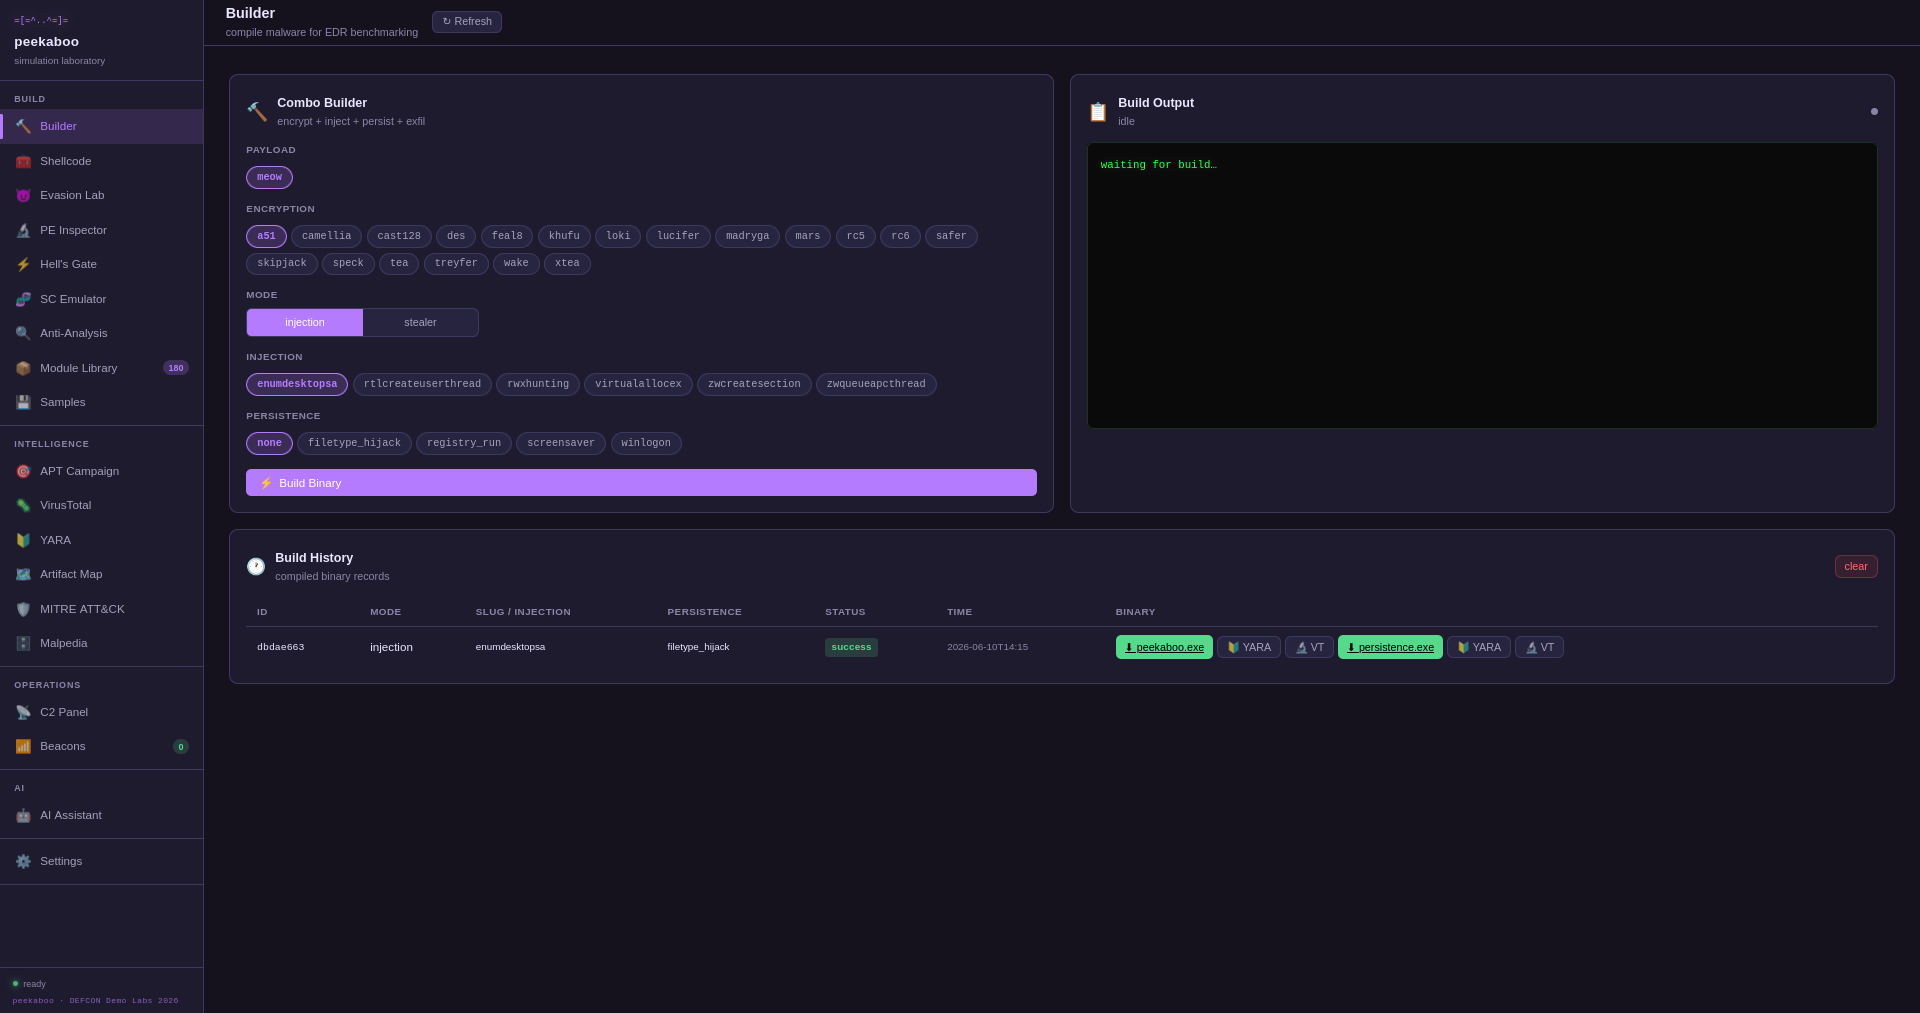
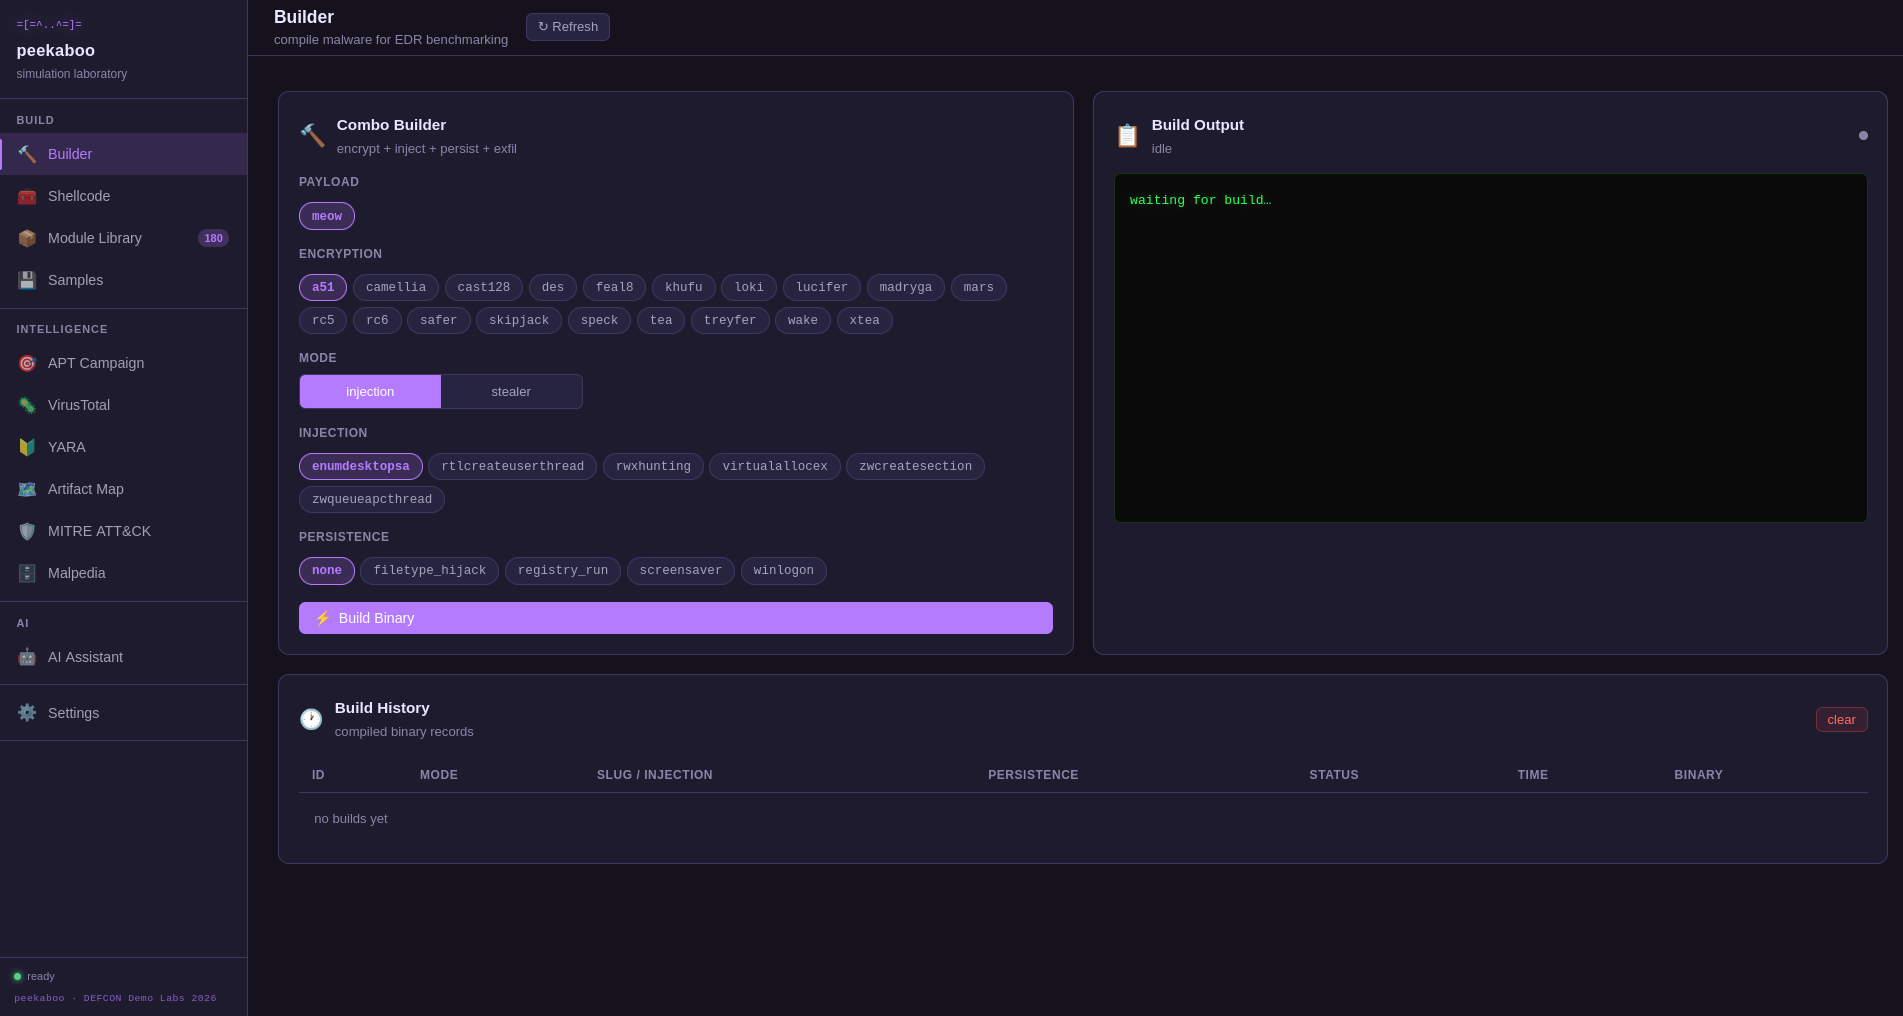
update readme: screenshots

diff --git a/dashboard/templates/index.html b/dashboard/templates/index.html
@@ -4549,7 +4549,7 @@ function artRebuild() {
     }
   };
   es.onerror = () => {
-    msg.textContent = 'Connection error — check console';
+    msg.textContent = 'Connection error - check console';
     es.close();
     if (btn) btn.disabled = false;
   };

diff --git a/worker.py b/worker.py
@@ -817,7 +817,7 @@ def _build_sigma_prompt(entry: dict) -> str:
     cmdlines  = entry.get("cmdlines",  [])[:4]
 
     parts = [
-        f"ATT&CK Technique: {tid} — {name}",
+        f"ATT&CK Technique: {tid} - {name}",
         f"Tactic: {tactic}",
         f"Covered by {rules} Sigma detection rules.",
     ]
@@ -867,7 +867,7 @@ def cmd_sigma(args: argparse.Namespace) -> None:
             print("[sigma] artifact_parser not available (pyyaml installed?)", flush=True)
             sys.exit(1)
         if not HAS_YAML:
-            print("[sigma] pyyaml not installed — run: pip install pyyaml", flush=True)
+            print("[sigma] pyyaml not installed - run: pip install pyyaml", flush=True)
             sys.exit(1)
 
         print(f"[sigma] parsing {sigma_dir} …", flush=True)
@@ -889,7 +889,7 @@ def cmd_sigma(args: argparse.Namespace) -> None:
     # -- Step 2: LLM summarization --------------------------------------------
     total = db.count_artifact_entries()
     if total == 0:
-        print("[sigma] artifact map is empty — add --sigma-path to parse rules first", flush=True)
+        print("[sigma] artifact map is empty - add --sigma-path to parse rules first", flush=True)
         print("[sigma]   example: python worker.py sigma --sigma-path ~/hacking/sigma", flush=True)
         return
 

diff --git a/README.md b/README.md
@@ -1,6 +1,6 @@
 # Peekaboo
 
-![img](./screenshots/2026-04-28_23-40.png)
+![img](./screenshots/2026-06-18_15-16.png)    
 
 Peekaboo is a modular framework designed to safely emulate malware behavior. It allows security researchers, red teamers, and blue teamers to reproduce complex threat scenarios - including Command & Control (C2) communication, persistence mechanisms, and lateral movement - without using destructive payloads.
 
@@ -28,7 +28,7 @@ Peekaboo is a modular framework designed to safely emulate malware behavior. It 
 - **MITRE ATT&CK R&D** - browse 200+ blog post techniques mapped to ATT&CK IDs with inline source code, LLM-extracted TTPs, and per-post GPU-precomputed briefs.
 - **Malpedia integration** - threat actor and malware family lookup with semantic blog post matching via local LLM embeddings.
 - **AI assistant** - local RAG chatbot (Ollama/qwen3) trained on blog posts and codebase; GPU-precomputed summaries served instantly with typing animation; fully offline.
-- **Quick Brief** - type any technique name in the AI assistant panel and get a GPU-precomputed 3-sentence brief instantly — no LLM call at request time.
+- **Quick Brief** - type any technique name in the AI assistant panel and get a GPU-precomputed 3-sentence brief instantly - no LLM call at request time.
 - **APT campaign pipeline** - end-to-end automated pipeline: Malpedia actor -> threat reports -> TTP extraction -> module selection -> binary compile.
 - **YARA rule generator** - auto-generate YARA rules from compiled binaries or uploaded samples.
 - **VirusTotal scanner** - submit binaries for AV detection scoring; lookup by SHA256; poll analysis results.
@@ -72,7 +72,7 @@ The dashboard is a Flask-based web UI that combines C2 monitoring, malware build
 cd dashboard && python3 app.py
 ```
 
-![img](./screenshots/2026-06-11_09-51_1.png)
+![img](./screenshots/2026-06-18_15-16.png)    
 
 ![img](./screenshots/2026-06-11_09-49.png)
 
@@ -99,7 +99,7 @@ cd dashboard && python3 app.py
 
 ## GPU / CPU split
 
-Heavy LLM work runs once on a GPU machine via `worker.py`. Results are stored in `dashboard/peekaboo.db`. The CPU dashboard only does DB reads — zero LLM calls at request time.
+Heavy LLM work runs once on a GPU machine via `worker.py`. Results are stored in `dashboard/peekaboo.db`. The CPU dashboard only does DB reads - zero LLM calls at request time.
 
 ```
 GPU machine                         CPU machine (dashboard)
@@ -111,7 +111,7 @@ python worker.py summarize          AI assistant typing animation
 python worker.py sigma              artifact map detection briefs
 ```
 
-All `worker.py` subcommands are **resumable** — they use `NOT IN` SQL patterns to skip already-processed rows. Interrupt and re-run at any time.
+All `worker.py` subcommands are **resumable** - they use `NOT IN` SQL patterns to skip already-processed rows. Interrupt and re-run at any time.
 
 ---
 
@@ -203,7 +203,7 @@ python worker.py summarize --model qwen3:14b --posts ~/hacking/meow/_posts
 
 Reads both the blog post markdown and the associated source code for each doc, then asks the LLM to write a 3-sentence summary: what the technique does, how it works at the API/syscall level, and what defenders should look for. Summaries are stored in `kb_summaries` and served by:
 
-- The **AI assistant** template response path (no live LLM call — just DB read + typing animation)
+- The **AI assistant** template response path (no live LLM call - just DB read + typing animation)
 - The **BRIEF block** in the MITRE Library detail card
 - The **Quick Brief** lookup in the AI assistant panel
 
@@ -219,17 +219,17 @@ Reads both the blog post markdown and the associated source code for each doc, t
 ### sigma
 
 ```bash
-# Step 1 (CPU) — parse 4,000+ Sigma rules into artifact_map
+# Step 1 (CPU) - parse 4,000+ Sigma rules into artifact_map
 python worker.py sigma --sigma-path ~/hacking/sigma --parse-only
 
-# Step 2 (GPU) — precompute detection briefs per technique
+# Step 2 (GPU) - precompute detection briefs per technique
 python worker.py sigma --model qwen3:14b
 
 # Full rebuild (if GPU machine also has the sigma repo)
 python worker.py sigma --sigma-path ~/hacking/sigma --rebuild --model qwen3:14b
 ```
 
-**Step 1 (parse):** Walks all `.yml` Sigma rule files, extracts per-technique event IDs, registry keys, process images, and command-line patterns, and stores them in `artifact_map`. This is the same data the dashboard "Build from Sigma Rules" button produces — but now runnable from the CLI without a browser.
+**Step 1 (parse):** Walks all `.yml` Sigma rule files, extracts per-technique event IDs, registry keys, process images, and command-line patterns, and stores them in `artifact_map`. This is the same data the dashboard "Build from Sigma Rules" button produces - but now runnable from the CLI without a browser.
 
 **Step 2 (LLM):** For each technique in `artifact_map`, builds a detection-focused prompt (TID, name, tactic, event IDs, processes, registry keys, rule count) and asks the LLM to write a 3-sentence detection brief: what the adversary does, the most reliable telemetry to detect it, and one detection recommendation. Stored in `artifact_summaries`.
 
@@ -237,7 +237,7 @@ Briefs appear in the **Overview tab** of the Artifact Map technique modal with a
 
 | flag | default | description |
 |------|---------|-------------|
-| `--sigma-path PATH` | — | Parse Sigma rules from this directory first |
+| `--sigma-path PATH` | - | Parse Sigma rules from this directory first |
 | `--parse-only` | off | Only parse rules, skip LLM step |
 | `--model` | `qwen3:14b` | Ollama chat model |
 | `--rebuild` | off | Wipe existing LLM briefs and redo all |
@@ -245,11 +245,11 @@ Briefs appear in the **Overview tab** of the Artifact Map technique modal with a
 **Typical GPU/CPU workflow:**
 
 ```bash
-# On CPU machine — parse rules, then copy DB to GPU
+# On CPU machine - parse rules, then copy DB to GPU
 python worker.py sigma --sigma-path ~/hacking/sigma --parse-only
 rsync dashboard/peekaboo.db gpu-server:~/hacking/peekaboo/dashboard/
 
-# On GPU machine — compute briefs
+# On GPU machine - compute briefs
 python worker.py sigma --model qwen3:14b
 rsync gpu-server:~/hacking/peekaboo/dashboard/peekaboo.db dashboard/
 ```
@@ -344,23 +344,23 @@ Submit binaries directly to VirusTotal. Features: upload, From Build, From Sessi
 
 The MITRE ATT&CK tab has four sub-tabs:
 
-**Techniques** — ATT&CK technique browser grouped by tactic; click any technique to see matched blog posts.
+**Techniques** - ATT&CK technique browser grouped by tactic; click any technique to see matched blog posts.
 
-**Technique Library** — all 200+ blog posts indexed from the [meow](https://github.com/cocomelonc/meow) research repository, mapped to ATT&CK IDs.
+**Technique Library** - all 200+ blog posts indexed from the [meow](https://github.com/cocomelonc/meow) research repository, mapped to ATT&CK IDs.
 
 - Filter by category (injection, persistence, evasion, cryptography, linux, macos, etc.)
-- Each row has a `[brief]` button — click to show the GPU-precomputed 3-sentence summary inline, without opening the full detail card
+- Each row has a `[brief]` button - click to show the GPU-precomputed 3-sentence summary inline, without opening the full detail card
 - Click any row to expand the full detail card with inline source code (C, C++, Nim, assembly), blog post link, and **BRIEF** block (GPU summary with typing animation)
 
-**TTP Implementations** — blog posts indexed by extracted ATT&CK ID with tactic, platform, and blog link.
+**TTP Implementations** - blog posts indexed by extracted ATT&CK ID with tactic, platform, and blog link.
 
-**Extracted TTPs** — LLM-inferred ATT&CK mappings per blog post: technique ID, tactic, confidence level, and rationale. Populated by `worker.py ttp`.
+**Extracted TTPs** - LLM-inferred ATT&CK mappings per blog post: technique ID, tactic, confidence level, and rationale. Populated by `worker.py ttp`.
 
 ![img](./screenshots/2026-04-28_23-40.png)
 
 ### Malpedia integration
 
-The Malpedia tab connects to the [Malpedia REST API](https://malpedia.caad.fkie.fraunhofer.de/) to browse threat actors and malware families. For each actor or family, related blog posts are matched using **semantic similarity** — the actor/family description is embedded via `nomic-embed-text`, then cosine-ranked against all cached post embeddings.
+The Malpedia tab connects to the [Malpedia REST API](https://malpedia.caad.fkie.fraunhofer.de/) to browse threat actors and malware families. For each actor or family, related blog posts are matched using **semantic similarity** - the actor/family description is embedded via `nomic-embed-text`, then cosine-ranked against all cached post embeddings.
 
 ![img](./screenshots/2026-05-01_01-55_1.png)
 
@@ -398,14 +398,14 @@ Cross-references 400+ ATT&CK techniques with 4,000+ Sigma detection rules. For e
 
 **Building the map:**
 
-Option A — browser: open the Artifact Map panel → click **⚙ Build from Sigma Rules**. Progress streams live.
+Option A - browser: open the Artifact Map panel → click **⚙ Build from Sigma Rules**. Progress streams live.
 
-Option B — CLI (recommended for GPU workflows):
+Option B - CLI (recommended for GPU workflows):
 ```bash
 python worker.py sigma --sigma-path ~/hacking/sigma --parse-only
 ```
 
-**Detection briefs:** after building the map, run `worker.py sigma` on the GPU to precompute a detection-focused 3-sentence brief per technique. Briefs appear in the **Overview tab** of each technique's modal with a typing animation — no LLM call at render time.
+**Detection briefs:** after building the map, run `worker.py sigma` on the GPU to precompute a detection-focused 3-sentence brief per technique. Briefs appear in the **Overview tab** of each technique's modal with a typing animation - no LLM call at render time.
 
 ### AI assistant
 
@@ -415,11 +415,11 @@ Local RAG chatbot built on the GPU/CPU split architecture.
 
 **How responses work (fastest to slowest):**
 
-1. **Canned answers** — instant; covers "what is Peekaboo?", "how to set up Ollama?", etc.
-2. **KB template response** — DB read only; finds matching blog posts with precomputed GPU summaries, streams full source code + brief + ATT&CK links with typing animation. No live LLM call.
-3. **Live LLM** — fallback for questions with no precomputed coverage; streams from Ollama with RAG context injected.
+1. **Canned answers** - instant; covers "what is Peekaboo?", "how to set up Ollama?", etc.
+2. **KB template response** - DB read only; finds matching blog posts with precomputed GPU summaries, streams full source code + brief + ATT&CK links with typing animation. No live LLM call.
+3. **Live LLM** - fallback for questions with no precomputed coverage; streams from Ollama with RAG context injected.
 
-**Quick Brief** — a compact lookup card above the chat window. Type any technique slug (e.g. `malware-tricks-58`) or keyword (e.g. `persistence`) and press Enter. Fetches the GPU-precomputed brief from the DB and displays it with typing animation. Falls back to a keyword search across the library if the exact slug is not found.
+**Quick Brief** - a compact lookup card above the chat window. Type any technique slug (e.g. `malware-tricks-58`) or keyword (e.g. `persistence`) and press Enter. Fetches the GPU-precomputed brief from the DB and displays it with typing animation. Falls back to a keyword search across the library if the exact slug is not found.
 
 **Provider:** local Ollama (`qwen3:1.7b` default for chat, `qwen3:14b` for GPU enrichment). Configure via `OLLAMA_MODEL` in `.env`.
 